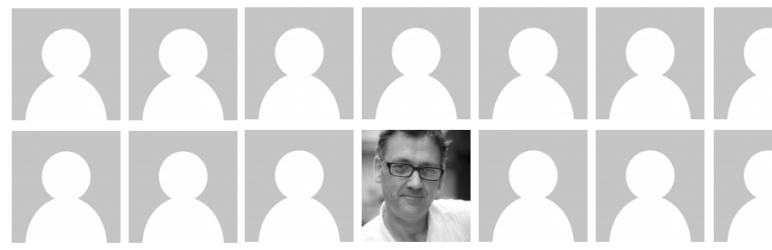
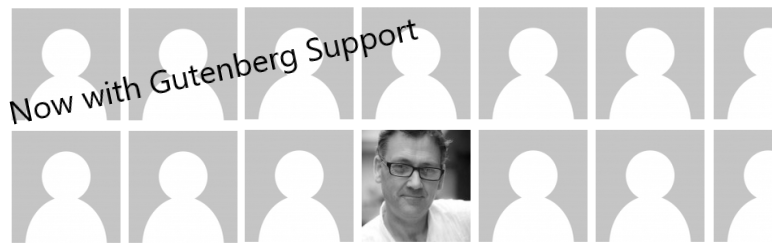
images and readme.txt

Changed region(s): [[0.0, 0.084, 0.5596, 0.504]]

diff --git a/blocks/dist/blocks.build.js b/blocks/dist/blocks.build.js
@@ -1,1 +1,110 @@
-!function(e){function t(n){if(a[n])return a[n].exports;var l=a[n]={i:n,l:!1,exports:{}};return e[n].call(l.exports,l,l.exports,t),l.l=!0,l.exports}var a={};t.m=e,t.c=a,t.d=function(e,a,n){t.o(e,a)||Object.defineProperty(e,a,{configurable:!1,enumerable:!0,get:n})},t.n=function(e){var a=e&&e.__esModule?function(){return e.default}:function(){return e};return t.d(a,"a",a),a},t.o=function(e,t){return Object.prototype.hasOwnProperty.call(e,t)},t.p="",t(t.s=0)}([function(e,t,a){"use strict";Object.defineProperty(t,"__esModule",{value:!0});a(1)},function(e,t,a){"use strict";var n=a(2),l=(a.n(n),a(3)),r=(a.n(l),wp.i18n.__),o=wp.blocks.registerBlockType,s=wp.components,i=(s.RadioControl,s.Panel,s.PanelBody,s.PanelRow,s.SelectControl),u=(s.Spinner,s.TextControl),c=s.RangeControl,m=s.ColorPalette,b=(s.PanelColorSettings,s.CheckboxControl),p=s.TextareaControl,d=wp.blockEditor,h=d.InspectorControls,_=d.InspectorAdvancedControls,v=d.BlockControls,w=d.AlignmentToolbar,f=wp.data,g=f.withSelect,y=(f.setState,wp),k=y.serverSideRender,E=wp.element.Fragment,C=[],A=[],j=[],S=[],x=[],P=[],O="";o("author-avatars/show-avatar",{title:r("Author Avatars - Show Avatar","author-avatars"),icon:"businessman",category:"common",keywords:[r("author-avatars \u2014 show_avatar","author-avatars"),r("Author Avatars","author-avatars"),r("profile pictures","author-avatars")],attributes:{size:{type:"init",default:50},email:{type:"string"},alignment:{type:"string",default:"left"},Options:{type:"array"},link:{type:"string"},display:{type:"bool"},role:{type:"bool"},sort_avatars_by:{type:"string",default:"display_name"},sort_order:{type:"string"},bio_length:{type:"init",default:50},user_id:{type:"number",default:0},limit:{type:"number"},page_size:{type:"number"},min_post_count:{type:"number"},hidden_users:{type:"string"},whitelist_users:{type:"string"},background_color:{type:"string",default:"#fff"},font_color:{type:"string",default:"#000"},border_radius:{type:"number",default:"0"},block_style:{selector:"div",source:"attribute",attribute:"style"}},edit:g(function(e){return{data:wp.apiFetch({path:"/author_avatar/blocks/v1/data"}).then(function(e){C=e.users,A=e.display_options,j=e.roles,S=e.links,x=e.sort_avatars_by,P=e.blogs,O=e.donate})}})(function(e){function t(t){e.setAttributes({background_color:t})}function a(t){e.setAttributes({font_color:t})}function n(t){e.setAttributes({link:t})}function l(t){e.setAttributes({user_id:t})}function o(t){e.setAttributes({email:t})}function s(t){e.setAttributes({size:t})}function d(t){e.setAttributes({limit:t})}function f(t){e.setAttributes({min_post_count:t})}function g(t){e.setAttributes({bio_length:t})}function y(t){e.setAttributes({sort_order:t})}function O(t){e.setAttributes({sort_avatars_by:t})}function N(t){e.setAttributes({page_size:t})}function z(t){e.setAttributes({hidden_users:t})}function F(t){e.setAttributes({whitelist_users:t})}function R(t){e.setAttributes({alignment:t})}function B(t){e.setAttributes({border_radius:t})}var M=e.className,I=(e.user,e.data,e.isSelected,e.attributes),T=e.setAttributes,D=e.attributes.background_color,L=e.attributes.font_color,G=e.attributes.user_id,H=e.attributes.email,U=e.attributes.link,W=e.attributes.sort_avatars_by,Z=e.attributes.sort_order,q=e.attributes.border_radius,J=e.attributes.size,K=e.attributes.bio_length,Q=e.attributes.page_size,V=e.attributes.min_post_count,X=e.attributes.whitelist_users,Y=e.attributes.hidden_users,$=e.attributes.limit,ee=I.alignment,te=e.attributes.block_style;te={backgroundColor:D,color:L,padding:"14px 25px",fontSize:"16px"};var ae="display"in I?I.display:new Object,ne=wp.compose.withState({checked_obj:Object.assign(new Object,ae)})(function(e){var t=e.checked_obj,a=e.setState;return wp.element.createElement("ul",null,A.map(function(e){return wp.element.createElement("li",{key:e.value},wp.element.createElement(b,{className:"check_items",label:e.label,checked:t[e.value],onChange:function(n){n?t[e.value]=!0:delete t[e.value],T({display:t}),a({checked_obj:t})}}))}))}),le="role"in I?I.role:new Object,re=wp.compose.withState({checked_obj:Object.assign(new Object,le)})(function(e){var t=e.checked_obj,a=e.setState;return wp.element.createElement("ul",null,j.map(function(e){return wp.element.createElement("li",{key:e.value},wp.element.createElement(b,{className:"check_items",label:e.label,checked:t[e.value],onChange:function(n){n?t[e.value]=!0:delete t[e.value],T({role:t}),a({checked_obj:t})}}))}))}),oe=("blogs"in I?I.blogs:new Object,wp.compose.withState({checked_obj:Object.assign(new Object,le)})(function(e){var t=e.checked_obj,a=e.setState;return wp.element.createElement("ul",null,P.map(function(e){return wp.element.createElement("li",{key:e.value},wp.element.createElement(b,{className:"check_items",label:e.label,checked:t[e.value],onChange:function(n){n?t[e.value]=!0:delete t[e.value],T({blogs:t}),a({checked_obj:t})}}))}))}));return[wp.element.createElement(h,{key:"000"},wp.element.createElement("label",{className:"blocks-base-control__label"},r("Background color","author-avatar")),wp.element.createElement(m,{label:r("Background color","author-avatar"),onChange:t}),wp.element.createElement("label",{className:"blocks-base-control__label"},r("Font color","author-avatar")),wp.element.createElement(m,{label:r("Font color","author-avatar"),title:r("Font color","author-avatar"),onChange:a}),wp.element.createElement(i,{label:r("User or Email addrerss/user_id or Roles","author-avatar"),name:"user_id",options:C,onChange:l}),-1==G&&wp.element.createElement(u,{label:"Custom email / id",type:"text",value:H,onChange:o}),0==G&&wp.element.createElement(E,null,wp.element.createElement("label",{className:"blocks-base-control__label"},r("Which Roles to display:","author-avatar")),wp.element.createElement(re,null)),wp.element.createElement("label",{className:"blocks-base-control__label"},r("Info to show with avatar:","author-avatar")),wp.element.createElement(ne,null),wp.element.createElement(i,{label:r("Link avatars to","author-avatar"),value:U,options:S,onChange:n}),wp.element.createElement(i,{label:r("Sort by","author-avatar"),value:W,options:x,onChange:O}),wp.element.createElement(i,{label:r("Sort order","author-avatar"),value:Z,options:[{label:"Ascending",value:"asc"},{label:"Descending",value:"desc"}],onChange:y}),wp.element.createElement(c,{label:"Size",value:J,onChange:s,min:10,max:500,initialPosition:50,beforeIcon:"businessman"}),wp.element.createElement(c,{label:"Corner size",value:q,onChange:B,min:0,max:50,initialPosition:0,beforeIcon:"buddicons-buddypress-logo"}),wp.element.createElement(E,null,wp.element.createElement("a",{href:"https://www.paypal.com/cgi-bin/webscr?cmd=_donations&business=MZTZ5S8MGF75C&lc=CA&item_name=Author%20Avatars%20Plugin%20Support&item_number=authoravatars&currency_code=CAD&bn=PP%2dDonationsBF%3abtn_donateCC_LG%2egif%3aNonHosted",target:"_donante"},wp.element.createElement("img",{alt:"Donate to support Plugin",src:"https://www.paypalobjects.com/en_US/i/btn/btn_donateCC_LG.gif"})))),wp.element.createElement(_,{key:"111"},!0===ae.show_biography&&wp.element.createElement(c,{label:"bio_length",value:K,onChange:g,min:10,max:200,initialPosition:50}),0==G&&wp.element.createElement(E,null,wp.element.createElement(u,{label:r("Max. avatars shown:","author-avatar"),type:"number",value:$,name:"limit",onChange:d}),wp.element.createElement(u,{label:r("Max. avatars per page:","author-avatar"),type:"number",value:Q,name:"limit",onChange:N}),wp.element.createElement(u,{label:r("Required number of posts:","author-avatar"),type:"number",value:V,name:"limit",onChange:f}),wp.element.createElement(p,{label:r("Hidden users","author-avatar"),help:r("(Comma separate list of user login ids. Hidden user are removed before the white list)","author-avatar"),value:Y,onChange:z}),wp.element.createElement(p,{label:r("White List of users:","author-avatar"),help:r("(0nly show these users, Comma separate list of user login ids)","author-avatar"),value:X,onChange:F}),wp.element.createElement(oe,null))),wp.element.createElement("div",{className:M,style:te,key:"222"},!!focus&&wp.element.createElement(v,null,wp.element.createElement(w,{value:ee,onChange:R})),wp.element.createElement(k,{block:"author-avatars/show-avatar",attributes:I}))]}),save:function(e){return null}})},function(e,t){},function(e,t){}]);
+/******/ (function(modules) { // webpackBootstrap
+/******/ 	// The module cache
+/******/ 	var installedModules = {};
+/******/
+/******/ 	// The require function
+/******/ 	function __webpack_require__(moduleId) {
+/******/
+/******/ 		// Check if module is in cache
+/******/ 		if(installedModules[moduleId]) {
+/******/ 			return installedModules[moduleId].exports;
+/******/ 		}
+/******/ 		// Create a new module (and put it into the cache)
+/******/ 		var module = installedModules[moduleId] = {
+/******/ 			i: moduleId,
+/******/ 			l: false,
+/******/ 			exports: {}
+/******/ 		};
+/******/
+/******/ 		// Execute the module function
+/******/ 		modules[moduleId].call(module.exports, module, module.exports, __webpack_require__);
+/******/
+/******/ 		// Flag the module as loaded
+/******/ 		module.l = true;
+/******/
+/******/ 		// Return the exports of the module
+/******/ 		return module.exports;
+/******/ 	}
+/******/
+/******/
+/******/ 	// expose the modules object (__webpack_modules__)
+/******/ 	__webpack_require__.m = modules;
+/******/
+/******/ 	// expose the module cache
+/******/ 	__webpack_require__.c = installedModules;
+/******/
+/******/ 	// define getter function for harmony exports
+/******/ 	__webpack_require__.d = function(exports, name, getter) {
+/******/ 		if(!__webpack_require__.o(exports, name)) {
+/******/ 			Object.defineProperty(exports, name, {
+/******/ 				configurable: false,
+/******/ 				enumerable: true,
+/******/ 				get: getter
+/******/ 			});
+/******/ 		}
+/******/ 	};
+/******/
+/******/ 	// getDefaultExport function for compatibility with non-harmony modules
+/******/ 	__webpack_require__.n = function(module) {
+/******/ 		var getter = module && module.__esModule ?
+/******/ 			function getDefault() { return module['default']; } :
+/******/ 			function getModuleExports() { return module; };
+/******/ 		__webpack_require__.d(getter, 'a', getter);
+/******/ 		return getter;
+/******/ 	};
+/******/
+/******/ 	// Object.prototype.hasOwnProperty.call
+/******/ 	__webpack_require__.o = function(object, property) { return Object.prototype.hasOwnProperty.call(object, property); };
+/******/
+/******/ 	// __webpack_public_path__
+/******/ 	__webpack_require__.p = "";
+/******/
+/******/ 	// Load entry module and return exports
+/******/ 	return __webpack_require__(__webpack_require__.s = 0);
+/******/ })
+/************************************************************************/
+/******/ ([
+/* 0 */
+/*!***********************!*\
+  !*** ./src/blocks.js ***!
+  \***********************/
+/*! no exports provided */
+/*! all exports used */
+/***/ (function(module, __webpack_exports__, __webpack_require__) {
+
+"use strict";
[1 lines of base64/hex data omitted]
+
+/***/ }),
+/* 1 */
+/*!**********************************!*\
+  !*** ./src/show-avatar/block.js ***!
+  \**********************************/
+/*! no exports provided */
+/***/ (function(module, __webpack_exports__, __webpack_require__) {
+
+"use strict";
[1 lines of base64/hex data omitted]
+
+/***/ }),
+/* 2 */
+/*!************************************!*\
+  !*** ./src/show-avatar/style.scss ***!
+  \************************************/
+/*! dynamic exports provided */
+/***/ (function(module, exports) {
+
[1 lines of base64/hex data omitted]
+
+/***/ }),
+/* 3 */
+/*!*************************************!*\
+  !*** ./src/show-avatar/editor.scss ***!
+  \*************************************/
+/*! dynamic exports provided */
+/***/ (function(module, exports) {
+
[1 lines of base64/hex data omitted]
+
+/***/ })
+/******/ ]);

diff --git a/blocks/dist/blocks.editor.build.css b/blocks/dist/blocks.editor.build.css
@@ -1,1 +1,77 @@
-.wp-block-author-avatars-show-avatar{display:flow-root}.wp-block-author-avatars-show-avatar .shortcode-author-avatars a{font-size:1rem}.shortcode-author-avatars div.author-list .user{text-align:center}.shortcode-author-avatars div.author-list .user .name{display:block;font-size:.85em}.shortcode-author-avatars ul.author-list{list-style:none;margin:0}.shortcode-author-avatars ul.author-list .avatar,.shortcode-author-avatars ol.author-list .avatar{float:left;clear:left;margin-right:.25em}.shortcode-author-avatars div.aa_pageList{width:100%;clear:left;text-align:center}.shortcode-author-avatars div.aa_pageList div{width:auto;margin-left:auto;margin-right:auto;display:block}.shortcode-author-avatars div.aa_pageList a{padding:2px 4px;border:1px #BFBFBF solid;margin:0 2px}.shortcode-author-avatars div.aa_pageList a.current,.shortcode-author-avatars div.aa_pageList a:hover{border-color:black}.shortcode-author-avatars div.aa_pageList a.current{font-weight:bold}.shortcode-show-avatar{display:block}.shortcode-show-avatar.right{float:right;margin-left:10px;width:auto;text-align:center}.shortcode-show-avatar.left{float:left;margin-right:10px;width:auto;text-align:center}.shortcode-show-avatar.center img{margin-left:auto;margin-right:auto}.contact-links ul{list-style:none;margin-left:0}
+/**
+ * #.# Common SCSS
+ *
+ * Can include things like variables and mixins
+ * that are used across the project.
+*/
+/**
+ * #.# Editor Styles
+ *
+ * CSS for just Backend enqueued after style.scss
+ * which makes it higher in priority.
+ */
+.wp-block-author-avatars-show-avatar {
+  display: flow-root; }
+  .wp-block-author-avatars-show-avatar .shortcode-author-avatars a {
+    font-size: 1rem; }
+
+.shortcode-author-avatars div.author-list .user {
+  text-align: center; }
+  .shortcode-author-avatars div.author-list .user .name {
+    display: block;
+    font-size: .85em; }
+
+.shortcode-author-avatars ul.author-list {
+  list-style: none;
+  margin: 0; }
+
+.shortcode-author-avatars ul.author-list .avatar,
+.shortcode-author-avatars ol.author-list .avatar {
+  float: left;
+  clear: left;
+  margin-right: .25em; }
+
+.shortcode-author-avatars div.aa_pageList {
+  width: 100%;
+  clear: left;
+  text-align: center; }
+
+.shortcode-author-avatars div.aa_pageList div {
+  width: auto;
+  margin-left: auto;
+  margin-right: auto;
+  display: block; }
+
+.shortcode-author-avatars div.aa_pageList a {
+  padding: 2px 4px;
+  border: 1px #BFBFBF solid;
+  margin: 0 2px; }
+
+.shortcode-author-avatars div.aa_pageList a.current, .shortcode-author-avatars div.aa_pageList a:hover {
+  border-color: black; }
+
+.shortcode-author-avatars div.aa_pageList a.current {
+  font-weight: bold; }
+
+.shortcode-show-avatar {
+  display: block; }
+
+.shortcode-show-avatar.right {
+  float: right;
+  margin-left: 10px;
+  width: auto;
+  text-align: center; }
+
+.shortcode-show-avatar.left {
+  float: left;
+  margin-right: 10px;
+  width: auto;
+  text-align: center; }
+
+.shortcode-show-avatar.center img {
+  margin-left: auto;
+  margin-right: auto; }
+
+.contact-links ul {
+  list-style: none;
+  margin-left: 0; }

diff --git a/blocks/src/show-avatar/block.js b/blocks/src/show-avatar/block.js
@@ -269,6 +269,7 @@ registerBlockType('author-avatars/show-avatar', {
 			function onChangeAlignment(updatedAlignment) {
 				props.setAttributes({alignment: updatedAlignment});
 			}
+
 			function onChangeBorderRadius(content) {
 				props.setAttributes({border_radius: content});
 			}
@@ -446,10 +447,14 @@ registerBlockType('author-avatars/show-avatar', {
 					<Fragment>
 						<a href={'https://www.paypal.com/cgi-bin/webscr?cmd=_donations&business=MZTZ5S8MGF75C&lc=CA&item_name=Author%20Avatars%20Plugin%20Support&item_number=authoravatars&currency_code=CAD&bn=PP%2dDonationsBF%3abtn_donateCC_LG%2egif%3aNonHosted'}
 						   target={'_donante'}>
-							<img alt={'Donate to support Plugin'} src="https://www.paypalobjects.com/en_US/i/btn/btn_donateCC_LG.gif"/>
+							<img alt={'Donate to support Plugin'}
+								 src="https://www.paypalobjects.com/en_US/i/btn/btn_donateCC_LG.gif"/>
 						</a>
 					</Fragment>
-
+					<div>
+						<label
+							className="blocks-base-control__label">{__('More options in Adavanced:', 'author-avatar')}</label>
+					</div>
 				</InspectorControls>,
 
 				<InspectorAdvancedControls key={'111'}>
@@ -507,7 +512,7 @@ registerBlockType('author-avatars/show-avatar', {
 						</Fragment>
 					)}
 
-					 </InspectorAdvancedControls>,
+				</InspectorAdvancedControls>,
 
 
 				<div className={className} style={block_style} key={'222'}>

diff --git a/blocks/dist/blocks.style.build.css b/blocks/dist/blocks.style.build.css
@@ -1,1 +1,18 @@
-.wp-block-cgb-block-author-avatars{background:#ff4500;border:0.2rem solid #292929;color:#292929;margin:0 auto;max-width:740px;padding:2rem}
+/**
+ * #.# Common SCSS
+ *
+ * Can include things like variables and mixins
+ * that are used across the project.
+*/
+/**
+ * #.# Styles
+ *
+ * CSS for both Frontend+Backend.
+ */
+.wp-block-cgb-block-author-avatars {
+  background: orangered;
+  border: 0.2rem solid #292929;
+  color: #292929;
+  margin: 0 auto;
+  max-width: 740px;
+  padding: 2rem; }
